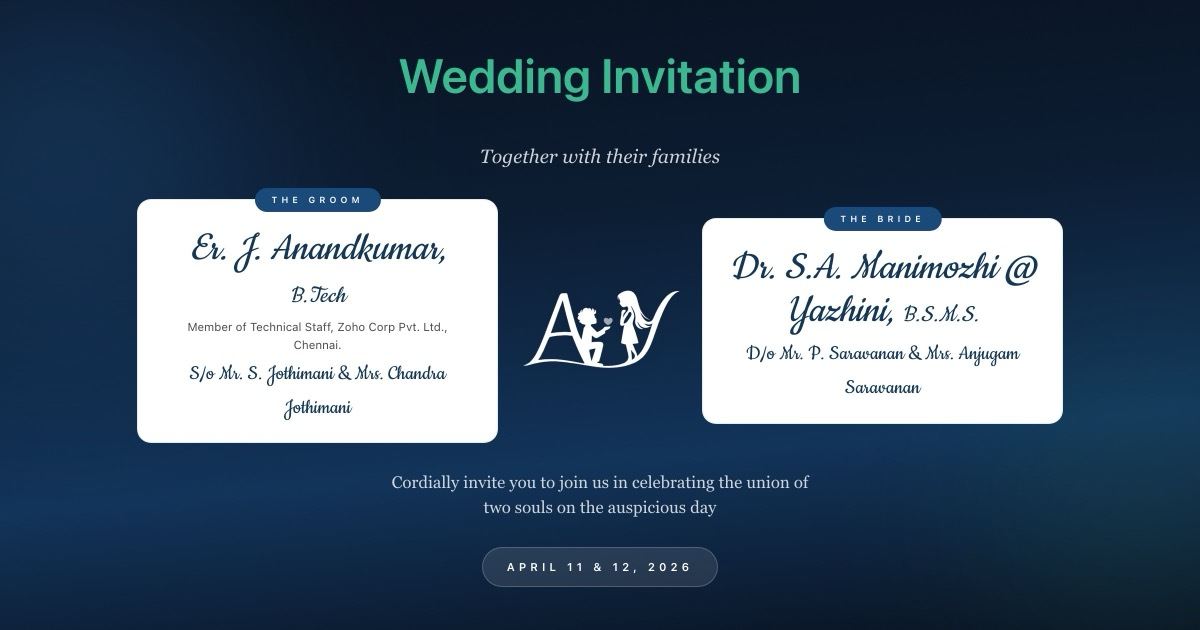
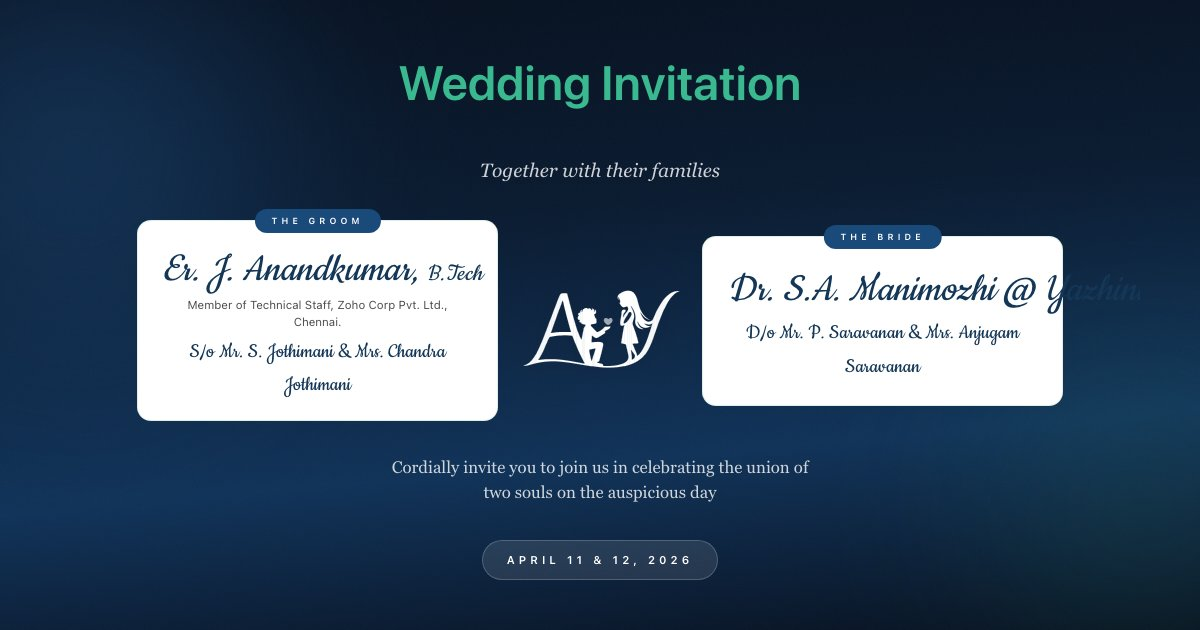
og image content updated

diff --git a/y2a/index.html b/y2a/index.html
@@ -12,7 +12,7 @@
   <!-- Open Graph / WhatsApp preview -->
   <meta property="og:type" content="website">
   <meta property="og:title" content="AnYa | Anandkumar &amp; Yazhini | Reception Invitation">
-  <meta property="og:description" content="We request your presence on the wedding reception ceremony of J. Anandkumar & S.A. Manimozhi @ Yazhini on April 13, 2026 at Sri Dhanalakshmi Marriage Hall AC">
+  <meta property="og:description" content="Requesting your presence on the wedding reception ceremony of J. Anandkumar & S.A. Manimozhi @ Yazhini on April 13, 2026 at Sri Dhanalakshmi Marriage Hall AC">
   <meta property="og:image" content="https://anandhayazh.in/og-y2a.jpg">
   <meta property="og:image:type" content="image/jpeg">
   <meta property="og:image:width" content="1200">
@@ -22,7 +22,7 @@
   <!-- Twitter Card (used by WhatsApp, Telegram, etc.) -->
   <meta name="twitter:card" content="summary_large_image">
   <meta name="twitter:title" content="AnYa | Anandkumar &amp; Yazhini | Reception Invitation">
-  <meta name="twitter:description" content="We request your presence on the wedding reception ceremony of J. Anandkumar & S.A. Manimozhi @ Yazhini on April 13, 2026 at Sri Dhanalakshmi Marriage Hall AC">
+  <meta name="twitter:description" content="Requesting your presence on the wedding reception ceremony of J. Anandkumar & S.A. Manimozhi @ Yazhini on April 13, 2026 at Sri Dhanalakshmi Marriage Hall AC">
   <meta name="twitter:image" content="https://anandhayazh.in/og-y2a.jpg">
 
   <link rel="preconnect" href="https://fonts.googleapis.com/">

diff --git a/index.html b/index.html
@@ -12,7 +12,7 @@
   <!-- Open Graph / WhatsApp preview -->
   <meta property="og:type" content="website">
   <meta property="og:title" content="AnYa | Anandkumar &amp; Yazhini | Wedding Invitation">
-  <meta property="og:description" content="We request your presence on the wedding ceremony of J. Anandkumar & S.A. Manimozhi @ Yazhini on April 11 & 12, 2026 at Sri Lalita Mahal">
+  <meta property="og:description" content="Requesting your presence on the wedding ceremony of J. Anandkumar & S.A. Manimozhi @ Yazhini on April 11 & 12, 2026 at Sri Lalita Mahal">
   <meta property="og:image" content="https://anandhayazh.in/og-a2y.jpg">
   <meta property="og:image:type" content="image/jpeg">
   <meta property="og:image:width" content="1200">
@@ -22,7 +22,7 @@
   <!-- Twitter Card -->
   <meta name="twitter:card" content="summary_large_image">
   <meta name="twitter:title" content="AnYa | Anandkumar &amp; Yazhini | Wedding Invitation">
-  <meta name="twitter:description" content="We request your presence on the wedding ceremony of J. Anandkumar & S.A. Manimozhi @ Yazhini on April 11 & 12, 2026 at Sri Lalita Mahal">
+  <meta name="twitter:description" content="Requesting your presence on the wedding ceremony of J. Anandkumar & S.A. Manimozhi @ Yazhini on April 11 & 12, 2026 at Sri Lalita Mahal">
   <meta name="twitter:image" content="https://anandhayazh.in/og-a2y.jpg">
 
   <style>

diff --git a/a2y/index.html b/a2y/index.html
@@ -12,7 +12,7 @@
   <!-- Open Graph / WhatsApp preview -->
   <meta property="og:type" content="website">
   <meta property="og:title" content="AnYa | Anandkumar &amp; Yazhini | Wedding Invitation">
-  <meta property="og:description" content="We request your presence on the wedding ceremony of J. Anandkumar & S.A. Manimozhi @ Yazhini on April 11 & 12, 2026 at Sri Lalita Mahal">
+  <meta property="og:description" content="Requesting your presence on the wedding ceremony of J. Anandkumar & S.A. Manimozhi @ Yazhini on April 11 & 12, 2026 at Sri Lalita Mahal">
   <meta property="og:image" content="https://anandhayazh.in/og-a2y.jpg">
   <meta property="og:image:type" content="image/jpeg">
   <meta property="og:image:width" content="1200">

diff --git a/generate-og.js b/generate-og.js
@@ -111,6 +111,11 @@ const HEIGHT = 630;
         proposeImg.style.transform = 'scale(1)';
         proposeImg.style.width = 'clamp(120px, 18vw, 180px)';
       }
+
+      // Prevent name + degree from wrapping
+      document.querySelectorAll('.hero-person__name').forEach(el => {
+        el.style.whiteSpace = 'nowrap';
+      });
     }, { w: WIDTH, h: HEIGHT });
 
     // Small delay for layout to settle
